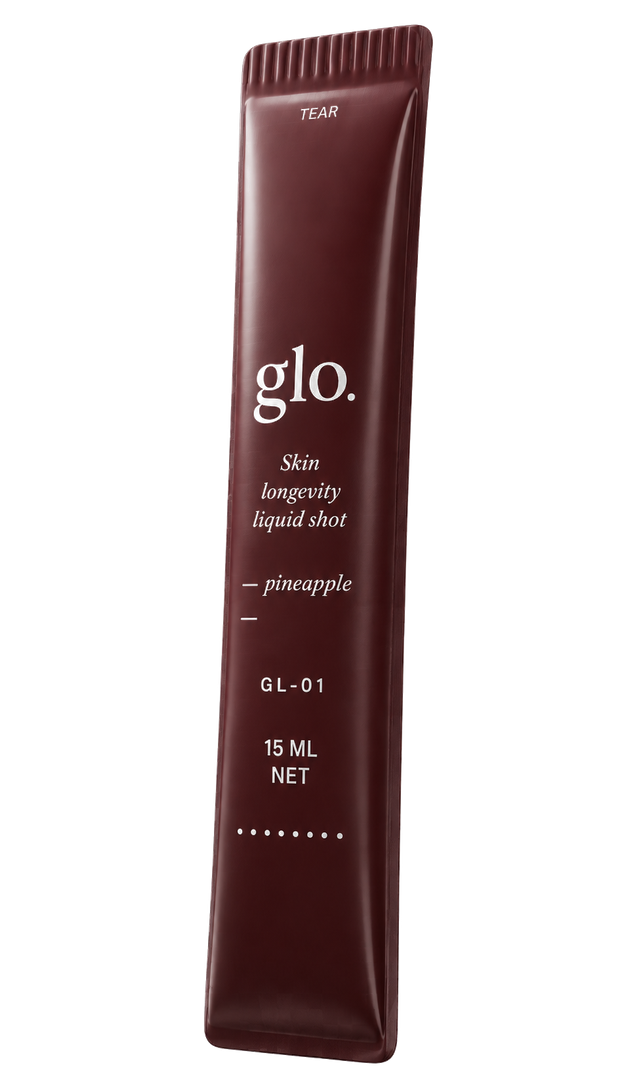
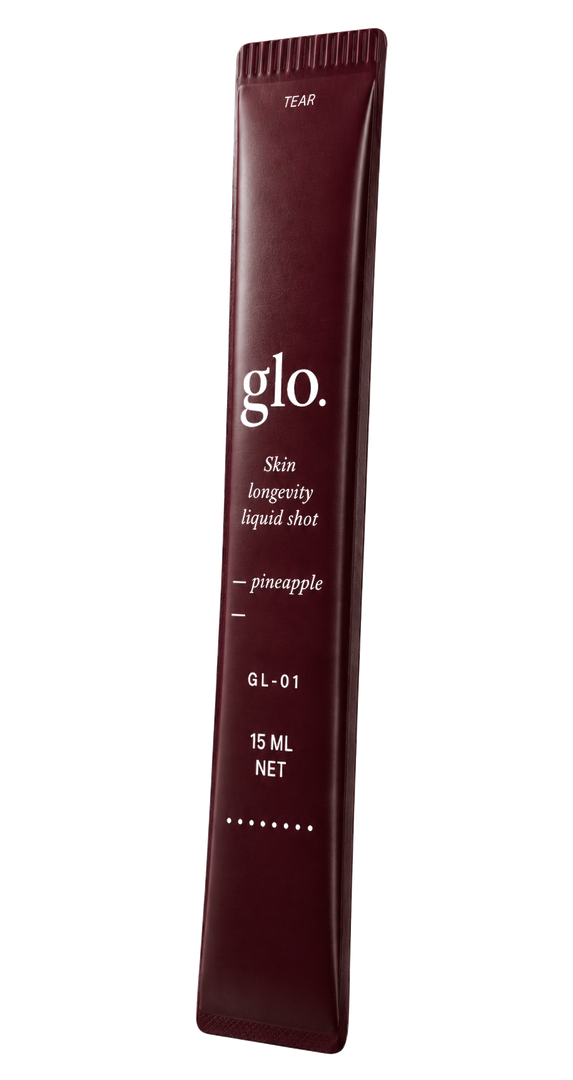
Replace sachet image with cleaner sleeker variant
New photograph is more vertical (914x1721, 1:1.88 vs prev 1:1.72)
with tighter package proportions. Reprocessed: white background
to alpha, resized to 573x1080, optimized to 258 KB.

Updated img width attributes to preserve the new aspect ratio
and avoid layout shift on first paint.

Changed region(s): [[0.3264, 0.0, 0.712, 1.0]]

diff --git a/product.html b/product.html
@@ -507,7 +507,7 @@ footer{background:var(--burg-800);padding:64px 0 32px;color:rgba(244,235,235,.6)
       <div class="atom a3"><span class="atom-dot"></span>Niacinamide <em>250 mg</em></div>
       <div class="atom a4"><span class="atom-dot"></span>Collagen &lt;500 Da</div>
       <div class="atom a5"><span class="atom-dot"></span>HA · 3 MW</div>
-      <img class="bottle-img" src="assets/bottle/sachet.png" alt="GL-01 sachet · 15 ml liquid shot · pineapple" width="337" height="580"/>
+      <img class="bottle-img" src="assets/bottle/sachet.png" alt="GL-01 sachet · 15 ml liquid shot · pineapple" width="308" height="580"/>
     </div>
     <div class="phero-r">
       <div class="ph-lbl">GL-01 · Skin longevity</div>

diff --git a/index.html b/index.html
@@ -499,7 +499,7 @@ footer{background:var(--bd);padding:68px 0 32px;color:rgba(242,232,216,.62);}
       <div class="atom a3"><span class="atom-dot"></span>Niacinamide <em>250 mg</em></div>
       <div class="atom a4"><span class="atom-dot"></span>Collagen &lt;500 Da</div>
       <div class="atom a5"><span class="atom-dot"></span>HA · 3 MW</div>
-      <img class="bottle-img" src="assets/bottle/sachet.png" alt="GL-01 sachet · 15 ml liquid shot · pineapple" width="314" height="540"/>
+      <img class="bottle-img" src="assets/bottle/sachet.png" alt="GL-01 sachet · 15 ml liquid shot · pineapple" width="286" height="540"/>
     </div>
   </div>
   <div class="ctr hero-trust">
